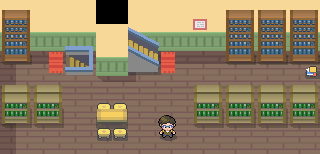
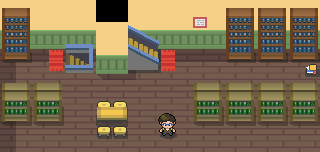
Edited Maps up to Floaroma_Town

diff --git a/PokemonPlatinum/src/Pokemon_Platinum_Game.java b/PokemonPlatinum/src/Pokemon_Platinum_Game.java
@@ -16,8 +16,8 @@ public class Pokemon_Platinum_Game {
 		this.trainer_map_storage = new Trainer_Map_Storage(pokedex, movelist);
 		this.map_storage = new Map_Storage();
 		this.player = new Player("Cynthia", "Cynthia", Direction.DOWN);
-		this.current_map = map_storage.getPokemon_map("Twinleaf_Town");
-		//this.current_map = map_storage.getPokemon_map("Sinnoh_Route_212");
+		//this.current_map = map_storage.getPokemon_map("Twinleaf_Town");
+		this.current_map = map_storage.getPokemon_map("Floaroma_Town");
 		this.player.setGrid_x(8);
 		this.player.setGrid_y(12);
 	}
